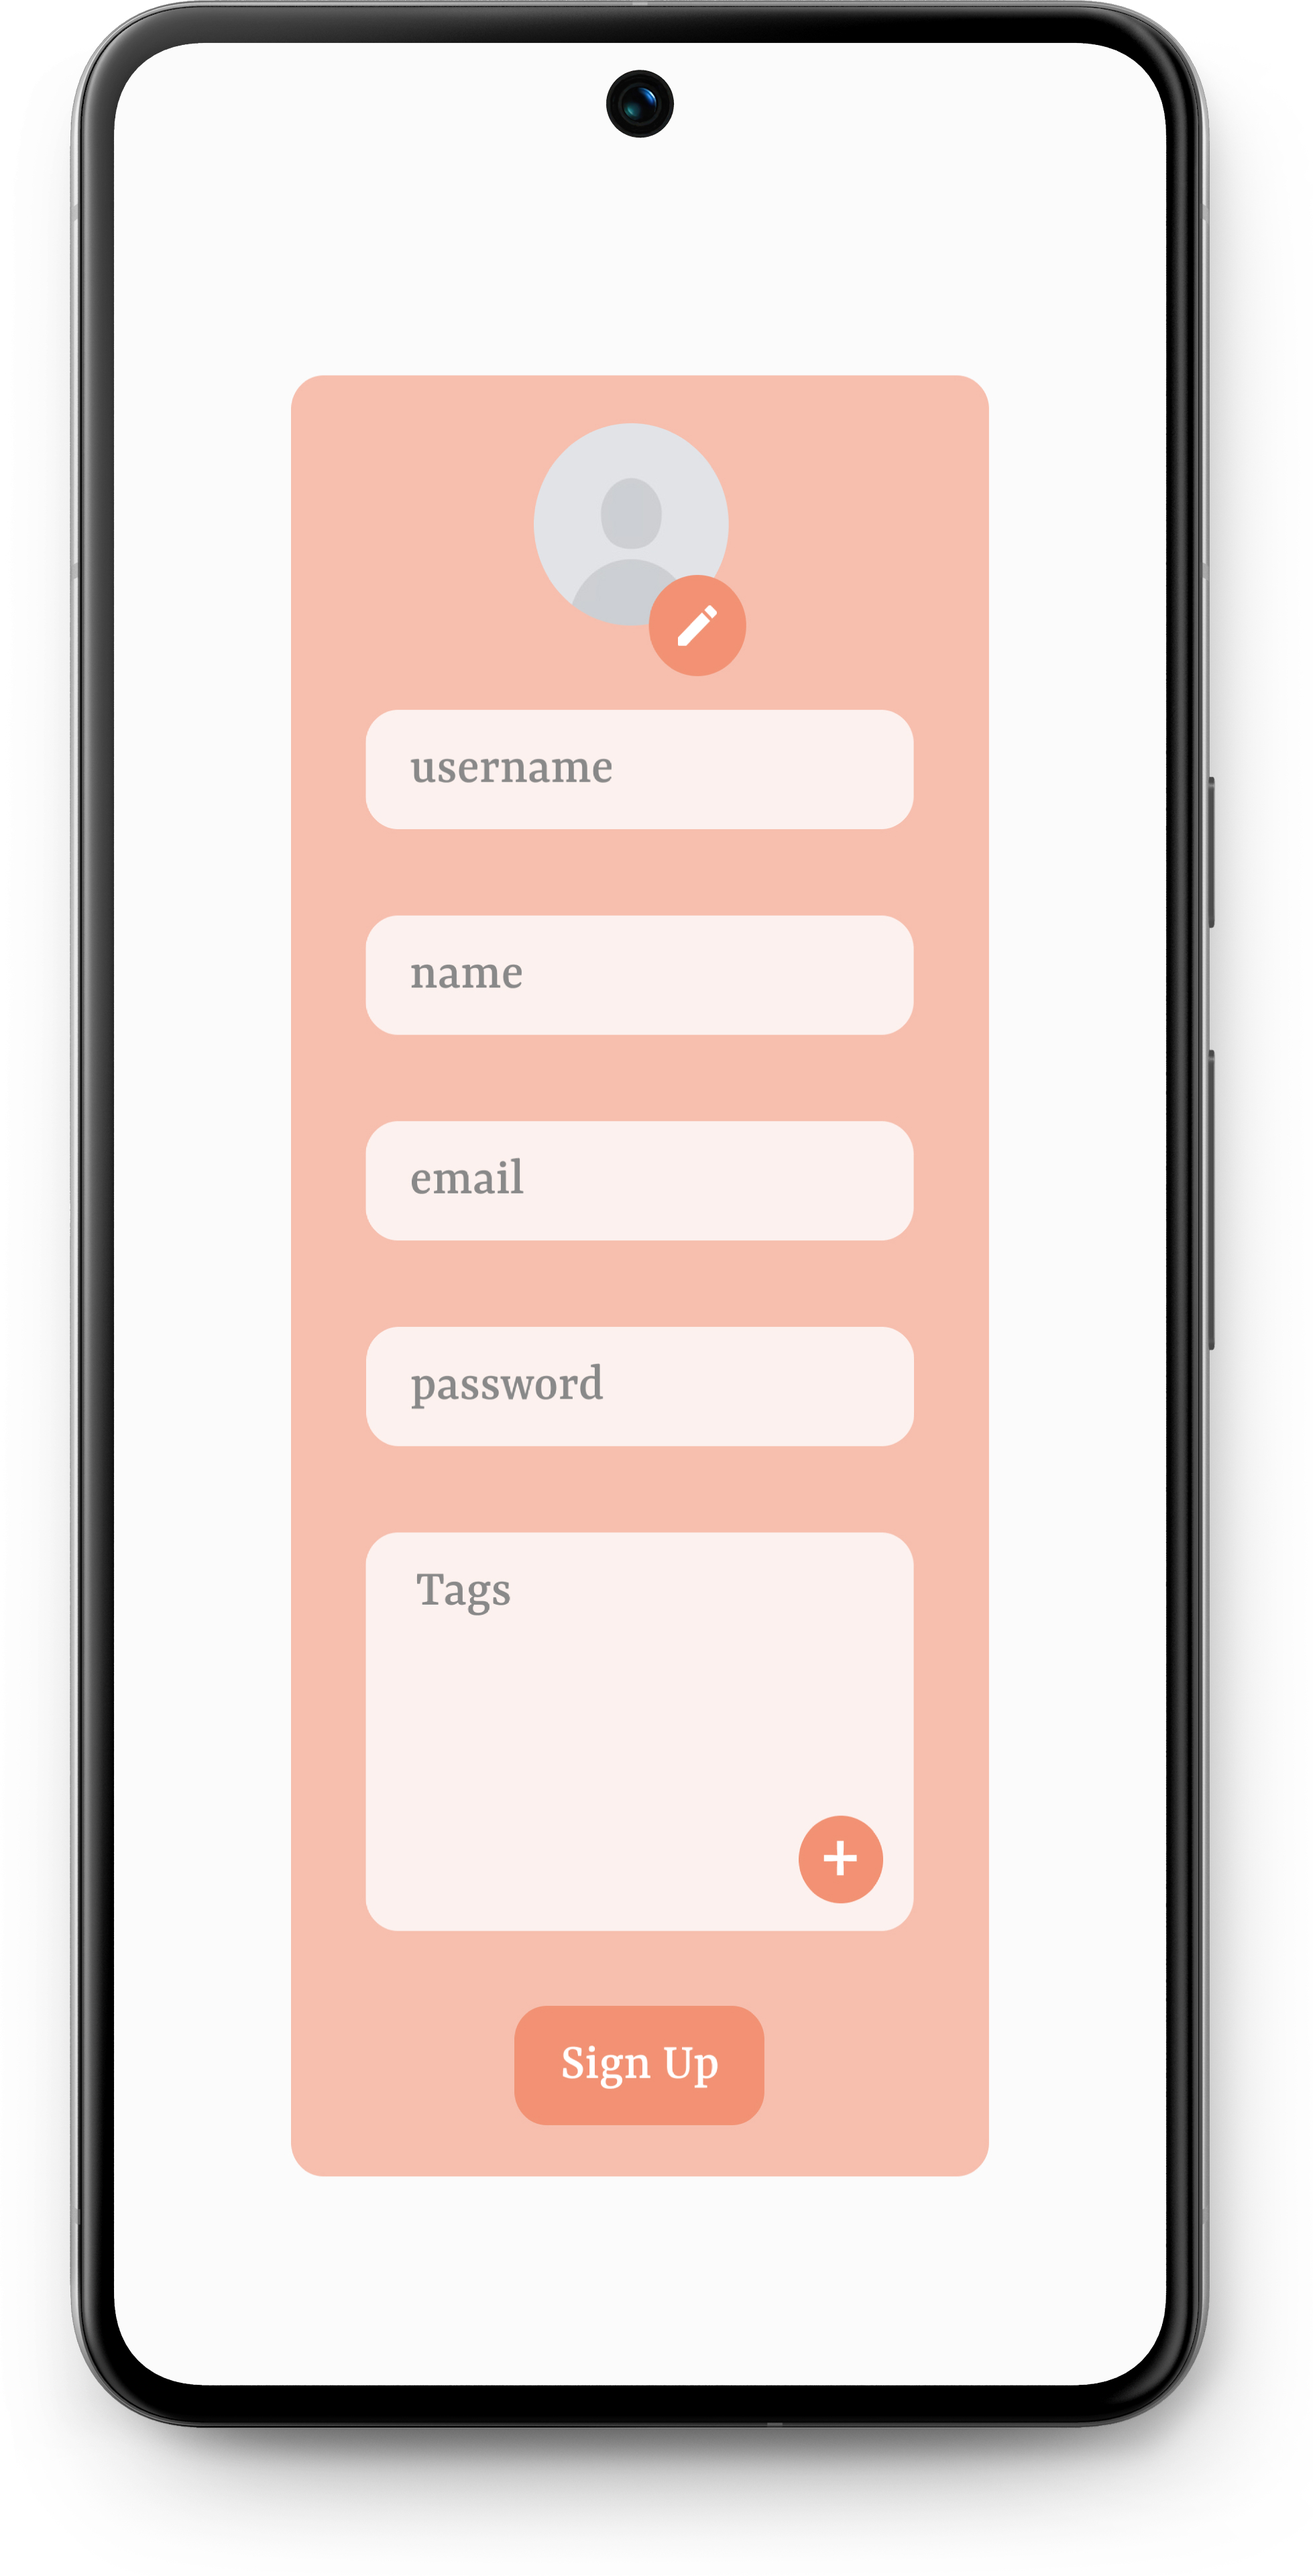
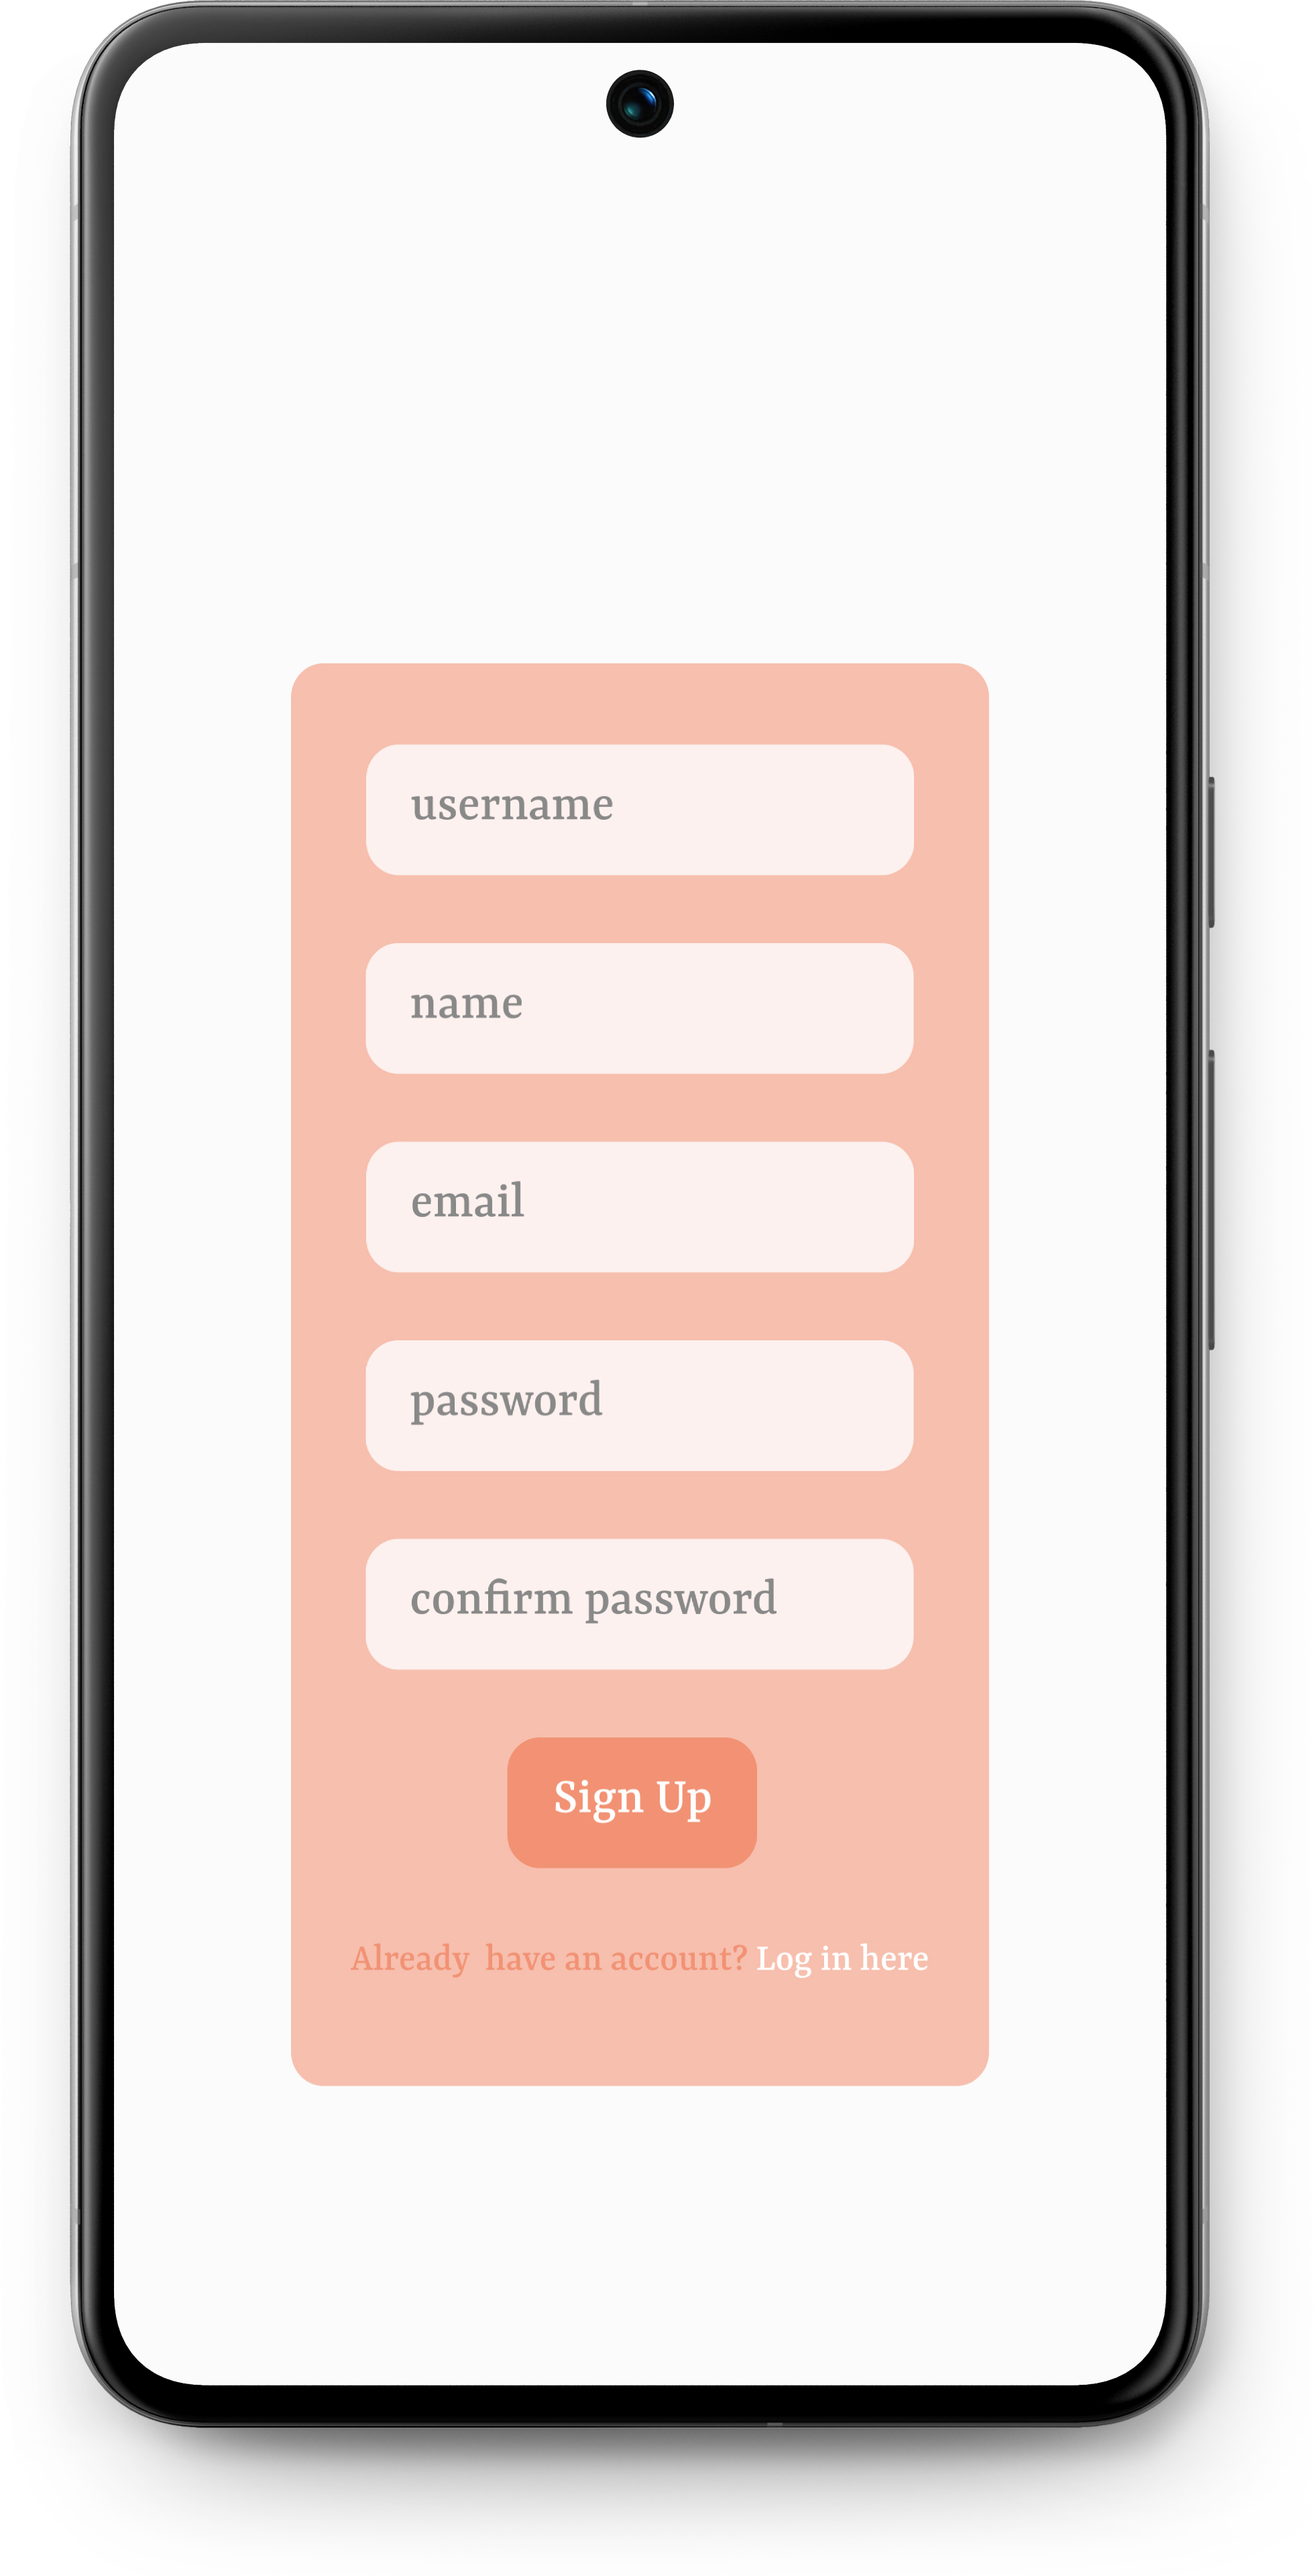
Updated README, mockups and added umls

Changed region(s): [[0.2181, 0.125, 0.7789, 0.8438]]

diff --git a/README.md b/README.md
@@ -1,60 +1,107 @@
-# 2LEIC16T4
+# UniConnect Development Report
 
-## Vision:
+Welcome to the documentation pages of the UniConnect!
 
-The platform aims to support student integration, fostering the inclusion of new students into the study body, by facilitating interaction and providing relevant information about the academic community.
+You can find here details about the UniConnect, from a high-level vision to low-level implementation decisions, a kind of Software Development Report, organized by type of activities: 
 
-This initiative aligns with various United Nations Sustainable Development Goals (SDGs), with the following standing out:
+* [Business modeling](#Business-Modelling)
+  * [Product Vision](#Product-Vision)
+  * [Features and Assumptions](#Features-and-Assumptions)
+  * [Elevator Pitch](#Elevator-pitch)
+* [Requirements](#Requirements)
+  * [User stories](#User-stories)
+  * [Domain model](#Domain-model)
+* [Architecture and Design](#Architecture-And-Design)
+  * [Logical architecture](#Logical-Architecture)
+  * [Physical architecture](#Physical-Architecture)
+  * [Vertical prototype](#Vertical-Prototype)
+* [Project management](#Project-Management)
 
-#### SDG 4: Quality Education
+Contributions are expected to be made exclusively by the initial team, but we may open them to the community, after the course, in all areas and topics: requirements, technologies, development, experimentation, testing, etc.
 
-The platform advocates for the integration and inclusion of new students, contributing to a more welcoming and diverse academic environment. By facilitating interaction among students and providing updated information about the available resources within the academic community, the platform supports the promotion of quality education for all.
+Please contact us!
 
-#### SDG 10: Reduced Inequalities
+Thank you!
 
-By connecting users based on criteria such as course, hobbies, and interests, the platform aims to diminish inequalities by promoting the integration of students from diverse backgrounds. This contributes to fostering a more inclusive and equitable environment within the student community.
+| Name                | Email                                               |
+| ------------------- | --------------------------------------------------- |
+| Afonso Machado      | [up202207611@fe.up.pt](mailto:up202207611@fe.up.pt) |
+| Afonso Domingues    | [up202207313@fe.up.pt](mailto:up202207313@fe.up.pt) |
+| Ana Filipa Geraldes | [up202208030@fe.up.pt](mailto:up202208030@fe.up.pt) |
+| Luís Arruda         | [up202206970@fe.up.pt](mailto:up202206970@fe.up.pt) |
 
-## Planned features:
 
-- Filter users according to:
-    - Course
-    - Hobbies
-    - Languages
-    - Etc.
-- Support for direct chat between two users, allowing students to speak privately, exchanging information, doubts, interests, and experiences, contributing to a more collaborative and welcoming environment.
-- Updated information on all available student organizations for the community. Users can access details about each organization, its activities, events, and how to participate, thus promoting student involvement in extracurricular activities and interest groups.
-- Information regarding upcoming student events, including lectures, workshops, seminars, parties, and more. Users will have access to event details such as date, time, location and description, encouraging active involvement and participation in the academic and social aspects of campus life.
+---
+## Business Modelling
 
-## User Stories:
+### Product Vision
 
-As a university student,
-I want to be able to initiate direct chat with another student, 
-So that I can have private conversations to discuss information, clear doubts, share interests and exchange experiences in a collaborative manner. 
+> UniConnect : Where Every Student Finds Their Place
 
-As a university student,
-I want to be able to filter other users based on their courses,
-So that I can connect with peers who are studying similar subjects.
+Empowering students to thrive in their academic journey, our platform is the hub of inclusion and integration within the university community. By fostering meaningful interactions and providing essential information, we cultivate a vibrant and diverse ecosystem where every student feels valued and supported. With our strong commitment to quality education and reducing inequalities, we pave the way for a more inclusive and equitable future, one connection at a time.
 
-As a university student,
-I want to be able to filter other users based on their hobbies,
-So that I can find individuals who share similar interests.
+### Features and Assumptions
 
-As a university student,
-I want to be able to filter other users based on languages spoken,
-So that I can communicate with individuals who speak the same language or practice languages I’m interested in learning.
+- **Personalized User Filtering:** enable users to filter other students based on their courses, hobbies, languages, and more.
+- **Direct Chat Functionality:** Provide a platform for private messaging between users, facilitating communication and information exchange, contributing to a more collaborative and welcoming environment.
+- **Student Organization Information**: Offer updated details on all student organizations, thus promoting student involvement in extracurricular activities and interest groups.
+- **Up-To-Date Event Listings:** Providing information on upcoming student events, including lectures, workshops, and social gatherings, encouraging active involvement and participation in the academic and social aspects of campus life.
 
-As a university student,  
-I want to access updated information about student organizations within the community,
-So that I can learn about their activities, events and how to participate.
+### Elevator Pitch
 
-As a university student,
-I want to view detailed information about upcoming student events such as lectures, workshops, seminars and parties,
-So that I can plan my participation accordingly and make the most out of campus life.
+Tired of feeling lost in the sea of university life? Introducing UniConnect, the ultimate solution for seamless student integration and engagement in the university community. We're not just another app; we're a vibrant hub of inclusion and integration, ensuring every student feels valued and supported. With personalized user filtering, direct chat functionality, comprehensive student organization details, and up-to-date event listings, we're revolutionizing how you engage with your university community. Say goodbye to isolation and hello to a more connected, collaborative, and fulfilling academic journey with UniConnect.
 
-## Group members:
+## Requirements
 
-- Afonso Machado      (up202207611@fe.up.pt)
-- Afonso Domingues    (up202207313@fe.up.pt)
-- Ana Filipa Geraldes (up202208030@fe.up.pt)
-- Luís Arruda         (up202206970@fe.up.pt)
+### Domain model
 
+This domain diagram consists of five classes. 
+- `User`: Stores data regarding all application users, including their name, username, password, a photo, and a unique email address. 
+- `Chat`: Contains the chat description, and a user can either be the owner or participate in multiple chats. 
+- `Student Organizations`: Contains information about student organizations, such as the organization's name, description, room, and social media links. Events are organized through this class. 
+- `Events`: Contains information about events, including the title, date, location, description, and start time -
+- `Tags`: This class allows users to search for specific characteristics within student organizations, events, and each other using the attributes type and name.
+
+![[umls\DomainModel.png]]
+
+## Architecture and Design
+
+In this section we'll describe the logical and physical architectures of our project. 
+
+### Logical architecture
+
+To ensure long-term maintenance of the code and facilitate easy understanding, our project has been divided into three main sections: 
+- **Events and Student Organizations**
+	- `UI` : This module is responsible for drawing the interface, allowing user-program interaction. 
+	- `Logic`: Handles the logic for creating and updating events and organizations. 
+	- `Database`: Stores information about events and organizations. 
+- **User Chat 
+	- `UI`: Provides the interface for chat and user profiles. 
+	- `Logic`: Manages the logic for user interaction, facilitating conversation between users with similar characteristics. 
+	- `Users Database`: Stores user information. 
+	- `Chat Database`: Stores conversations between users. 
+- **External Services** 
+	- `Message Handling`: Library responsible for receiving and sending messages from users.
+
+![[umls\LogicalArchitecture.png]]
+
+### Physical architecture
+
+- **Student Smartphone**: This is where the Uniconnect application is located. 
+- **Uniconnect application server**: It employs the same logic as the previously presented logical diagram. However, events are separated from student organizations because they must be physically distinct. 
+- **Message server**: This physical entity, not under our direct control, facilitates the exchange of messages within the Uniconnect
+
+![[umls\PhysicalArchitecture.png]]
+
+### Vertical prototype
+
+
+
+## Project management
+
+You can find below information and references related with the project management in our team:
+- Backlog management: Product backlog and Sprint backlog in a [Github Projects board]
+- Release management: [v0], [v1], [v2], [v3], ...;
+- Sprint planning and retrospectives:
+    - plans: screenshots of Github Projects board at begin and end of each iteration;
+    - retrospectives: meeting notes in a document in the repository;
